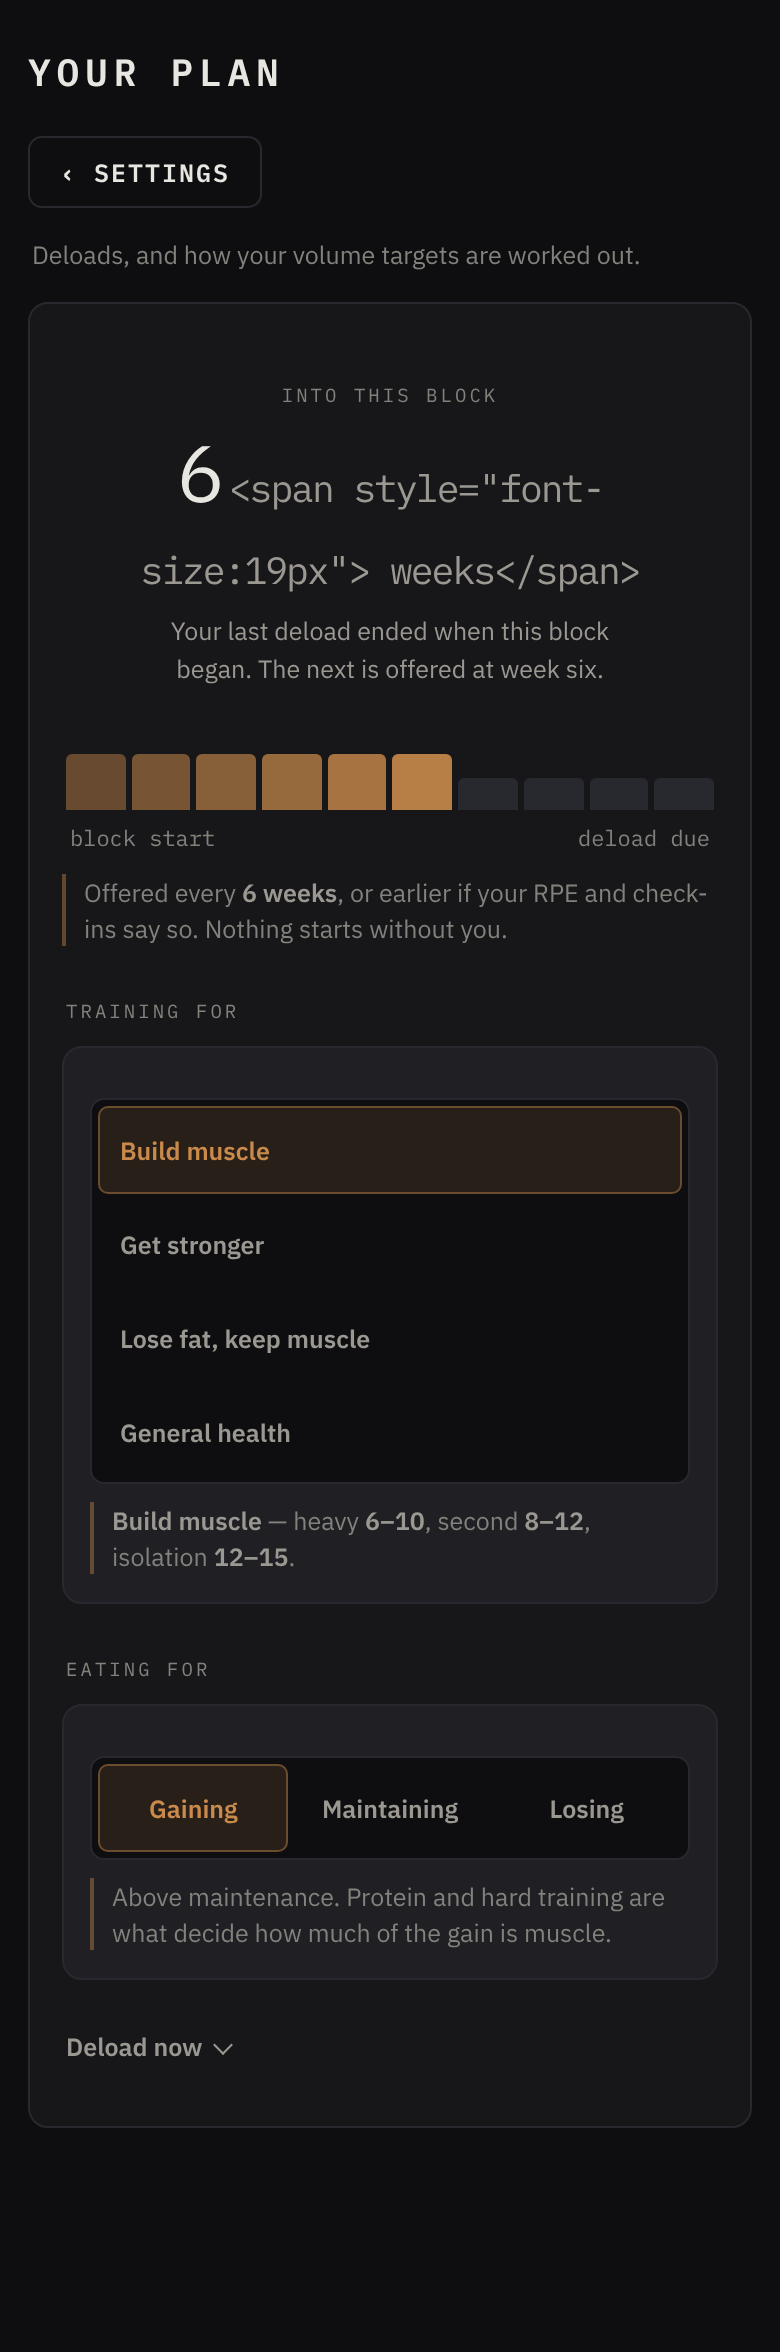
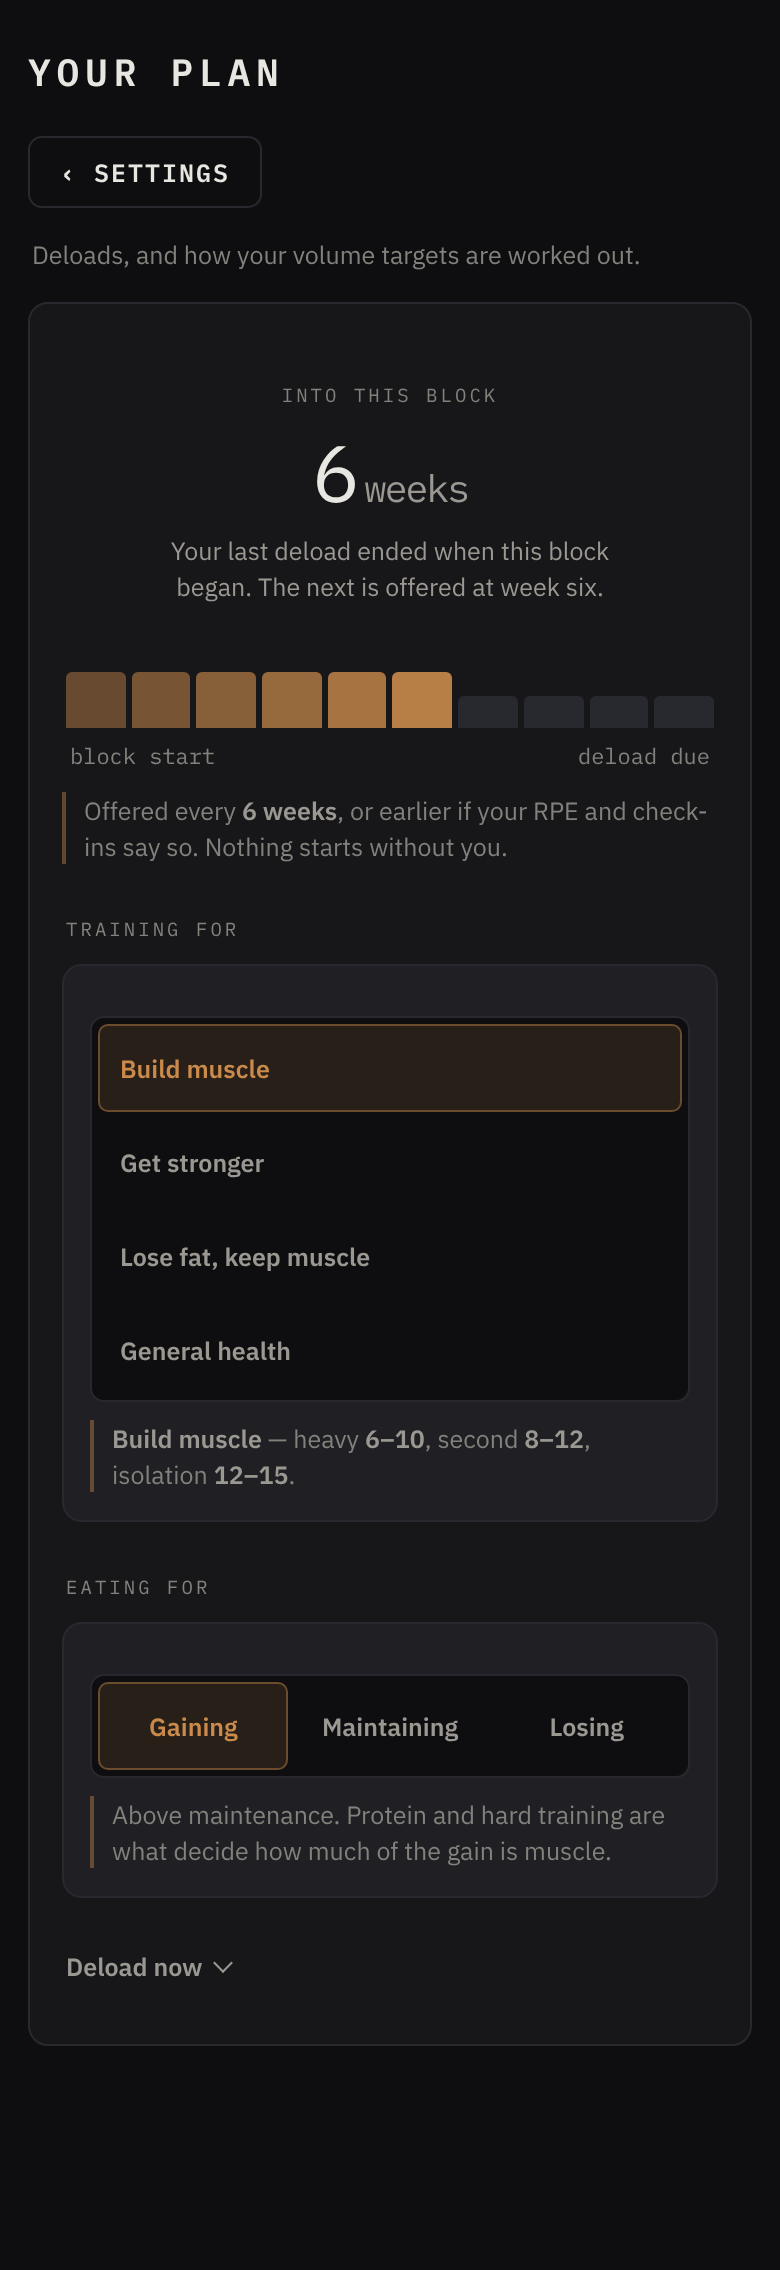
Batch 4: the six action screens, one pass each
Design assets only; no app file touched. Every Settings screen now has a
drawn design: nine chosen from A/B/C, six passed once in the language those
nine settled.

Three faults, all caught by looking at the renders:

hero() escapes its unit, so markup passed as a unit printed as source text on
four screens -- "74 <span style=...> sessions</span>" in 40px mono. The <i>
already carries the size and colour, so they pass plain strings now.

.danger is a global colour rule and .btn's own colour overrides it, so a
destructive button read exactly like a harmless one. Stated explicitly for the
group whose whole job is to look dangerous. Worth noting the live app's Your
data screen has the same markup, so its Erase and Delete buttons are likely
not red today either.

Your data also moves the two irreversible actions into their own bordered
group under a red heading, rather than leaving them as two more blocks in the
same stack as Export.

Claude-Session: https://claude.ai/code/session_01GAZKtWTWgeWboZwoRMpH1R

diff --git a/design/variants/variants.js b/design/variants/variants.js
@@ -449,7 +449,7 @@ const plan_A = ()=>
   + item("","",`<div class="btn-row" style="margin:0"><button type="button" class="btn ghost small" style="flex:1">Start a deload week</button></div>`)));
 
 const plan_B = ()=>
-  hero("INTO THIS BLOCK","6",`<span style="font-size:19px"> weeks</span>`,
+  hero("INTO THIS BLOCK","6","weeks",
     "Your last deload ended when this block began. The next is offered at week six.")
 + blockBar()
 + says("Offered every <b>6 weeks</b>, or earlier if your RPE and check-ins say so. Nothing starts without you.")
@@ -617,7 +617,7 @@ const share_A = ()=>
 + says("The plan and what you have done against it always go. Never shared, whatever you turn on: your account id, your recovery key, your reminder subscriptions. The snapshot is checked before it leaves this device and <b>refuses to send rather than trimming itself</b>.");
 
 const share_B = ()=>
-  hero("THIS LINK LASTS","30",`<span style="font-size:19px"> days</span>`,
+  hero("THIS LINK LASTS","30","days",
     "Then it stops working, for everyone who has it. You can revoke it sooner.")
 + seg([{v:7,t:"7 days"},{v:30,t:"30 days"},{v:90,t:"90 days"}],30)
 + says("Ninety at the very most. A link that never expires is one you will have forgotten about by the time it matters.")
@@ -641,6 +641,123 @@ const share_C = ()=>
 
 Object.assign(window.SD, {day_A,day_B,day_C,
   remind_A,remind_B,remind_C, share_A,share_B,share_C});
+/* =====================  BATCH 4 — the action screens  =====================
+   One pass each, in the language the nine picks settled: hero, the control, a says line,
+   labelled groups, More, and the app's own .btn for anything that is a verb. */
+
+/* ---------- Your account ---------- */
+const acct_1 = ()=>
+  heroW("SIGNED IN AS","Fer","Your plan, workouts and settings are stored on this device under this account.")
++ sec("The two halves of your account")
++ group(
+    `<div class="sd-item"><div class="sd-label">Your Element 26 User ID</div>
+      <div class="sd-key"><code>E26-7K4Q-2M18</code>
+        <button type="button" class="btn ghost small" style="width:auto;padding:9px 14px">Copy</button></div>
+      <p class="sd-sub" style="margin-top:7px">Identifies the account. It opens nothing on its own.</p></div>`
+  + `<div class="sd-item"><div class="sd-label">Recovery key</div>
+      <div class="sd-key is-hidden"><code>•••• •••• •••• ••••</code>
+        <button type="button" class="btn ghost small" style="width:auto;padding:9px 14px">Show</button></div>
+      <p class="sd-sub" style="margin-top:7px">The half that proves the account is yours. Not for sharing.</p></div>`)
++ says("You need the ID <b>and</b> the key to sign in somewhere else. Keep both private.")
++ sec("Cloud backup")
++ group(tog("Back up to the cloud","Off. Everything lives on this device and nowhere else.",false))
++ more("Signing out", group(item("","Reversible. Your data stays on this device.",
+    `<div class="btn-row" style="margin:0"><button type="button" class="btn ghost small" style="flex:1">Sign out</button></div>`,
+    "Deleting the account for good lives with the other irreversible action, under <b>Your data</b>.")));
+
+/* ---------- Your data ---------- */
+const data_1 = ()=>
+  hero("LOGGED ON THIS DEVICE","74","sessions",
+    "One file holds all of it: every workout, your plan, your split and your settings.")
++ `<div class="btn-row" style="margin:12px 0 0">
+    <button type="button" class="btn" style="flex:1">Export my data</button>
+    <button type="button" class="btn ghost small" style="flex:0 0 auto">Import a file</button></div>`
++ says("No passwords or keys are ever written into the file. This browser has <b>not</b> granted persistent storage, so it may clear this app's data if the device runs short — an exported file is the copy nobody can clear.")
++ more("Repairs — three things worth checking", group(
+    item("Been logging wrong?","Whether a barbell number meant the bar plus plates or just the plates.",
+      `<div class="btn-row" style="margin:0"><button type="button" class="btn ghost small" style="flex:1">Check my logged weights</button></div>`)
+  + item("Dips and pull-ups logged without you","Bodyweight sets that may be missing your weight.",
+      `<div class="btn-row" style="margin:0"><button type="button" class="btn ghost small" style="flex:1">Check my bodyweight sets</button></div>`)))
++ `<div class="sd-sec sd-sec-danger">There is no way back from these</div>`
++ `<div class="sd-group sd-danger">`
+  + item("Erase my training data","Your plan and every workout logged on this device. The account itself stays — sign in again and you start empty.",
+      `<div class="btn-row" style="margin:0"><button type="button" class="btn ghost small danger" style="flex:1">Erase my training data</button></div>`)
+  + item("Delete my account","The account itself, and everything stored against it. No copy anywhere.",
+      `<div class="btn-row" style="margin:0"><button type="button" class="btn ghost small danger" style="flex:1">Delete account</button></div>`,
+      "Export a backup above first if there is any chance you want the log later.")
++ `</div>`;
+
+/* ---------- Plan patches ---------- */
+const patch_1 = ()=>
+  heroW("PLAN PATCHES","None applied yet","A patch is a written change to your plan: paste it, read exactly what it would do, then apply it. Everything it does can be taken back.")
++ sec("Paste a patch")
++ group(`<div class="sd-item">
+    <textarea class="sd-ta" rows="5" spellcheck="false"
+      placeholder='{"e26patch": 1, "note": "why", "ops": [ ... ]}'></textarea>
+    <div class="btn-row" style="margin:10px 0 0">
+      <button type="button" class="btn" style="flex:1">Preview</button>
+      <button type="button" class="btn ghost small" style="flex:0 0 auto">Copy the format</button></div>
+  </div>`)
++ says("Nothing is written until you have seen the preview and pressed Apply. The format is for developers — <b>Copy the format</b> hands over the spec and your current plan together.")
++ more("What a patch can change", group(item("","",
+    `<div class="sd-sub">Sets, reps, load, rest and RPE on a slot; renaming or replacing a
+     movement; adding and removing slots; reordering a day; and notes. Nineteen operations
+     in all.</div>`)));
+
+/* ---------- Storage ---------- */
+const storage_1 = ()=>
+  hero("ON THIS DEVICE","1.8","MB of 5",
+    "36% used. Everything on this screen removes something, so the export comes first.")
++ `<div class="sto-bar" style="margin:4px 0 0"><span class="sto-fill" style="width:36%"></span></div>`
++ `<div class="btn-row" style="margin:14px 0 0"><button type="button" class="btn" style="flex:1">Export raw data</button></div>`
++ says("Reads this device's storage directly as text, so it works even when a screen will not draw. GitHub sync tokens are left out; your account key is in it, so keep the file private.")
++ sec("Can be freed — 412 KB")
++ group(
+    item("Rescue backups","Three copies of your data from before a risky change. 243 KB.",
+      `<div class="btn-row" style="margin:0"><button type="button" class="btn ghost small" style="flex:1">Free all three</button></div>`,
+      "You lose the ability to roll back to before those changes. Your log is untouched.")
+  + item("Patch snapshots","Two, 119 KB.",
+      `<div class="btn-row" style="margin:0"><button type="button" class="btn ghost small" style="flex:1">Free both</button></div>`,
+      "Undo keeps working on each patch's own changes; only the whole roll-back goes.")
+  + item("Saved research","50 KB.",
+      `<div class="btn-row" style="margin:0"><button type="button" class="btn ghost small" style="flex:1">Free it</button></div>`,
+      "Papers you have opened or saved stop being readable offline until the next fetch."))
++ more("What cannot be freed here — 1.4 MB", group(item("","",
+    `<div class="sd-sub">Your sessions, plan, settings, gyms, volume landmarks, plan history
+     and account. Listed because an honest answer to what is taking the room has to include
+     them, and that is all — there is no delete button, not a disabled one.</div>`)));
+
+/* ---------- Help ---------- */
+const help_1 = ()=>
+  hero("ELEMENT 26","2026.11.17.41",null,"What changed, how the app works, and how to tell somebody when it misbehaves.")
++ sec("Reading")
++ group(
+    item("What changed in this version","Research that says what the service actually said, one place to export your raw data, and Settings › Storage.",
+      `<div class="btn-row" style="margin:0"><button type="button" class="btn ghost small" style="flex:1">Read what changed</button></div>`)
+  + item("The tour","Twelve steps on cycles, rep ranges, RPE, logging a set and grades. About a minute, and it changes nothing.",
+      `<div class="btn-row" style="margin:0"><button type="button" class="btn ghost small" style="flex:1">Show the tour again</button></div>`))
++ sec("Something's wrong")
++ group(item("Report a problem","Goes to whoever maintains Element 26 with the version you are on and any errors the app caught.",
+    `<div class="btn-row" style="margin:0"><button type="button" class="btn ghost small" style="flex:1">Report a problem</button></div>`,
+    "<b>Never your workouts.</b>"));
+
+/* ---------- Licensing ---------- */
+const legal_1 = ()=>
+  heroW("LICENSING","Open source","The work Element 26 uses, who made it, and under what terms.")
++ sec("The anatomy drawings")
++ group(item("MuscleMap","Copyright (c) 2026 Melih Colpan, used under the MIT licence.","",
+    "The licence has one obligation and this screen is it: its copyright and permission notice travel with the work, carried rather than linked — a link is a promise that a server somewhere keeps answering, and these drawings ship offline."))
++ more("The MIT licence in full", group(`<div class="sd-item">
+    <pre class="sd-pre">MIT License
+
+Copyright (c) 2026 Melih Colpan
+
+Permission is hereby granted, free of charge, to any person obtaining a copy
+of this software and associated documentation files (the "Software"), to deal
+in the Software without restriction…</pre></div>`));
+
+Object.assign(window.SD, {acct_1,data_1,patch_1,storage_1,help_1,legal_1});
+
 
 
 })();

diff --git a/design/variants/controls.css b/design/variants/controls.css
@@ -213,3 +213,29 @@
   letter-spacing:.02em;margin-bottom:4px}
 .sd-prev-b{font-size:var(--fs-3);line-height:1.45;color:var(--dim)}
 .sd-prev-b b{color:var(--text);font-weight:600}
+
+/* An identifier beside the one button that acts on it. */
+.sd-key{display:flex;align-items:center;gap:9px;margin-top:7px}
+.sd-key code{flex:1 1 auto;min-width:0;font-family:var(--mono);font-size:var(--fs-4);
+  color:var(--text);background:var(--bg);border:1px solid var(--line);
+  border-radius:var(--r-sm);padding:11px 12px;overflow:hidden;text-overflow:ellipsis;
+  white-space:nowrap;letter-spacing:.04em}
+.sd-key.is-hidden code{color:var(--faint)}
+
+/* IRREVERSIBLE WORK GETS ITS OWN EDGE, not just a red word. */
+.sd-sec-danger{color:var(--bad)}
+.sd-group.sd-danger{border-color:rgba(209,88,79,.42)}
+.sd-group.sd-danger .sd-label{color:var(--bad)}
+
+.sd-ta{width:100%;box-sizing:border-box;min-height:118px;resize:vertical;
+  background:var(--bg);color:var(--text);border:1px solid var(--line);
+  border-radius:var(--r-sm);padding:11px 12px;font-family:var(--mono);
+  font-size:var(--fs-3);line-height:1.5}
+.sd-ta::placeholder{color:var(--faint)}
+.sd-pre{margin:0;white-space:pre-wrap;word-break:break-word;font-family:var(--mono);
+  font-size:var(--fs-2);line-height:1.6;color:var(--dim)}
+
+/* .danger is a global colour rule in the app and .btn's own colour overrides it here, so
+   a destructive button reads the same as a harmless one. Stated explicitly for the group
+   that exists to look dangerous. */
+.sd-danger .btn.danger{color:var(--bad);border-color:rgba(209,88,79,.42)}
